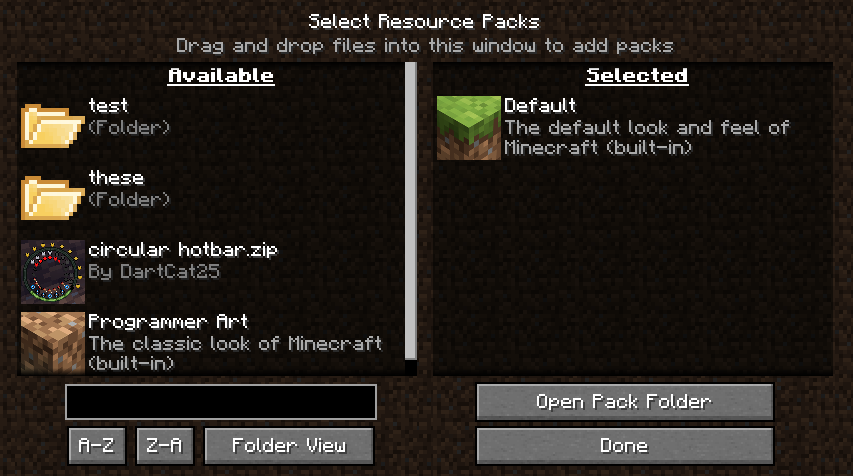
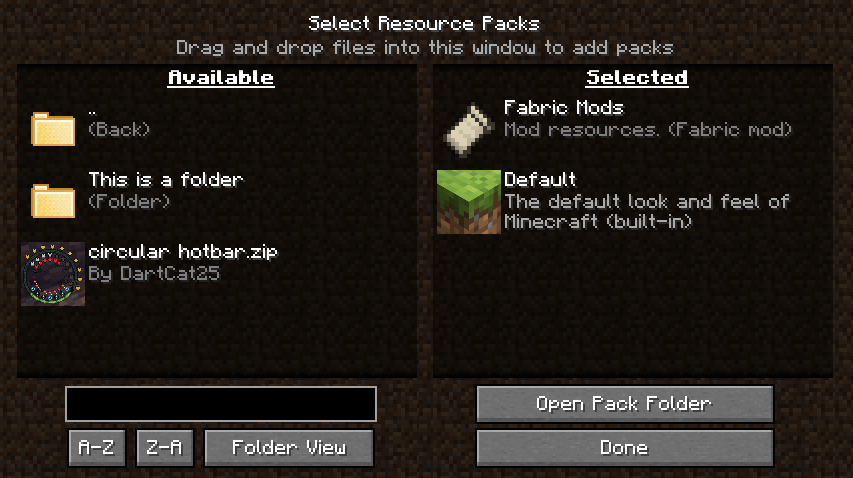
Another new folder texture and some other visual improvements

diff --git a/src/main/java/nl/enjarai/recursiveresources/packs/FolderPack.java b/src/main/java/nl/enjarai/recursiveresources/packs/FolderPack.java
@@ -10,17 +10,22 @@ import net.minecraft.text.Text;
 import net.minecraft.util.Identifier;
 import org.apache.logging.log4j.LogManager;
 
-import java.io.IOException;
 import java.io.InputStream;
 
 public class FolderPack implements ResourcePackOrganizer.Pack {
-    private static final Identifier folderResource = new Identifier("recursiveresources:textures/gui/folder.png"); // http://www.iconspedia.com/icon/folion-icon-27237.html
+    private static final Identifier folderResource = new Identifier("recursiveresources:textures/gui/folder.png");
+    private static final Identifier openFolderResource = new Identifier("recursiveresources:textures/gui/folder_open.png");
 
     static {
         // for some reason the texture fails to load in the actual game
-        try (InputStream stream = FolderPack.class.getResourceAsStream("/assets/recursiveresources/textures/gui/folder.png")) {
-            MinecraftClient.getInstance().getTextureManager().registerTexture(folderResource, new NativeImageBackedTexture(NativeImage.read(stream)));
-        } catch (IOException e) {
+        loadTexture(folderResource, "/assets/recursiveresources/textures/gui/folder.png");
+        loadTexture(openFolderResource, "/assets/recursiveresources/textures/gui/folder_open.png");
+    }
+
+    private static void loadTexture(Identifier id, String path) {
+        try (InputStream stream = FolderPack.class.getResourceAsStream(path)) {
+            MinecraftClient.getInstance().getTextureManager().registerTexture(id, new NativeImageBackedTexture(NativeImage.read(stream)));
+        } catch (Exception e) {
             LogManager.getLogger(FolderPack.class).warn("Error loading folder texture:");
             e.printStackTrace();
         }
@@ -29,14 +34,20 @@ public class FolderPack implements ResourcePackOrganizer.Pack {
     private final Text displayName;
     private final Text description;
 
+    private boolean hovered = false;
+
     public FolderPack(Text displayName, Text description) {
         this.displayName = displayName;
         this.description = description;
     }
 
+    public void setHovered(boolean hovered) {
+        this.hovered = hovered;
+    }
+
     @Override
     public Identifier getIconId() {
-        return folderResource;
+        return hovered ? openFolderResource : folderResource;
     }
 
     @Override

diff --git a/src/main/java/nl/enjarai/recursiveresources/packs/ResourcePackFolderEntry.java b/src/main/java/nl/enjarai/recursiveresources/packs/ResourcePackFolderEntry.java
@@ -1,8 +1,10 @@
 package nl.enjarai.recursiveresources.packs;
 
 import net.minecraft.client.MinecraftClient;
+import net.minecraft.client.gui.DrawableHelper;
 import net.minecraft.client.gui.screen.pack.PackListWidget;
 import net.minecraft.client.gui.screen.pack.PackListWidget.ResourcePackEntry;
+import net.minecraft.client.util.math.MatrixStack;
 import net.minecraft.text.LiteralText;
 import nl.enjarai.recursiveresources.gui.CustomResourcePackScreen;
 
@@ -32,34 +34,12 @@ public class ResourcePackFolderEntry extends ResourcePackEntry {
         return true;
     }
 
+    @Override
+    public void render(MatrixStack matrices, int index, int y, int x, int entryWidth, int entryHeight, int mouseX, int mouseY, boolean hovered, float tickDelta) {
+        super.render(matrices, index, y, x, entryWidth, entryHeight, mouseX, mouseY, hovered, tickDelta);
 
-
-//    @Override
-//    public void render(MatrixStack matrices, int index, int y, int x, int entryWidth, int entryHeight, int mouseX, int mouseY, boolean hovered, float tickDelta) {
-//        ();
-//        RenderSystem.setShaderColor(1F, 1F, 1F, 1F);
-//        DrawableHelper.blit(x, y, 0F, 0F, 32, 32, 32, 32);
-//
-//        String title = getDisplayName();
-//        String desc = getDescription();
-//
-//        if (client.options.touchscreen || isMouseOver) {
-//            DrawableHelper.fill(x, y, x + 32, y + 32, -1601138544);
-//            RenderSystem.color4f(1F, 1F, 1F, 1F);
-//        }
-//
-//        TextRenderer fontRenderer = client.textRenderer;
-//        int titleWidth = fontRenderer.getWidth(title);
-//
-//        if (titleWidth > 157) {
-//            title = fontRenderer.trimToWidth(title, 157 - fontRenderer.getWidth("...")) + "...";
-//        }
-//
-//        fontRenderer.drawWithShadow(title, x + 32 + 2, y + 1, 16777215);
-//        List<String> lines = fontRenderer.wrapLines(desc, 157);
-//
-//        for (int line = 0; line < 2 && line < lines.size(); ++line) {
-//            fontRenderer.drawWithShadow(lines.get(line), x + 32 + 2, y + 12 + 10 * line, 8421504);
-//        }
-//    }
+        if (hovered) {
+            DrawableHelper.fill(matrices, x, y, x + 32, y + 32, 0xa0909090);
+        }
+    }
 }

diff --git a/src/main/java/nl/enjarai/recursiveresources/mixin/ResourcePackEntryMixin.java b/src/main/java/nl/enjarai/recursiveresources/mixin/ResourcePackEntryMixin.java
@@ -1,0 +1,29 @@
+package nl.enjarai.recursiveresources.mixin;
+
+import net.minecraft.client.gui.screen.pack.PackListWidget;
+import net.minecraft.client.gui.screen.pack.ResourcePackOrganizer;
+import net.minecraft.client.util.math.MatrixStack;
+import nl.enjarai.recursiveresources.packs.FolderPack;
+import org.spongepowered.asm.mixin.Final;
+import org.spongepowered.asm.mixin.Mixin;
+import org.spongepowered.asm.mixin.Shadow;
+import org.spongepowered.asm.mixin.injection.At;
+import org.spongepowered.asm.mixin.injection.Inject;
+import org.spongepowered.asm.mixin.injection.callback.CallbackInfo;
+
+@Mixin(PackListWidget.ResourcePackEntry.class)
+public abstract class ResourcePackEntryMixin {
+    @Shadow
+    @Final
+    public ResourcePackOrganizer.Pack pack;
+
+    @Inject(
+            method = "render(Lnet/minecraft/client/util/math/MatrixStack;IIIIIIIZF)V",
+            at = @At("HEAD")
+    )
+    private void recursiveresources$onRender(MatrixStack matrices, int index, int y, int x, int entryWidth, int entryHeight, int mouseX, int mouseY, boolean hovered, float tickDelta, CallbackInfo ci) {
+        if (pack instanceof FolderPack folderPack) {
+            folderPack.setHovered(hovered);
+        }
+    }
+}
